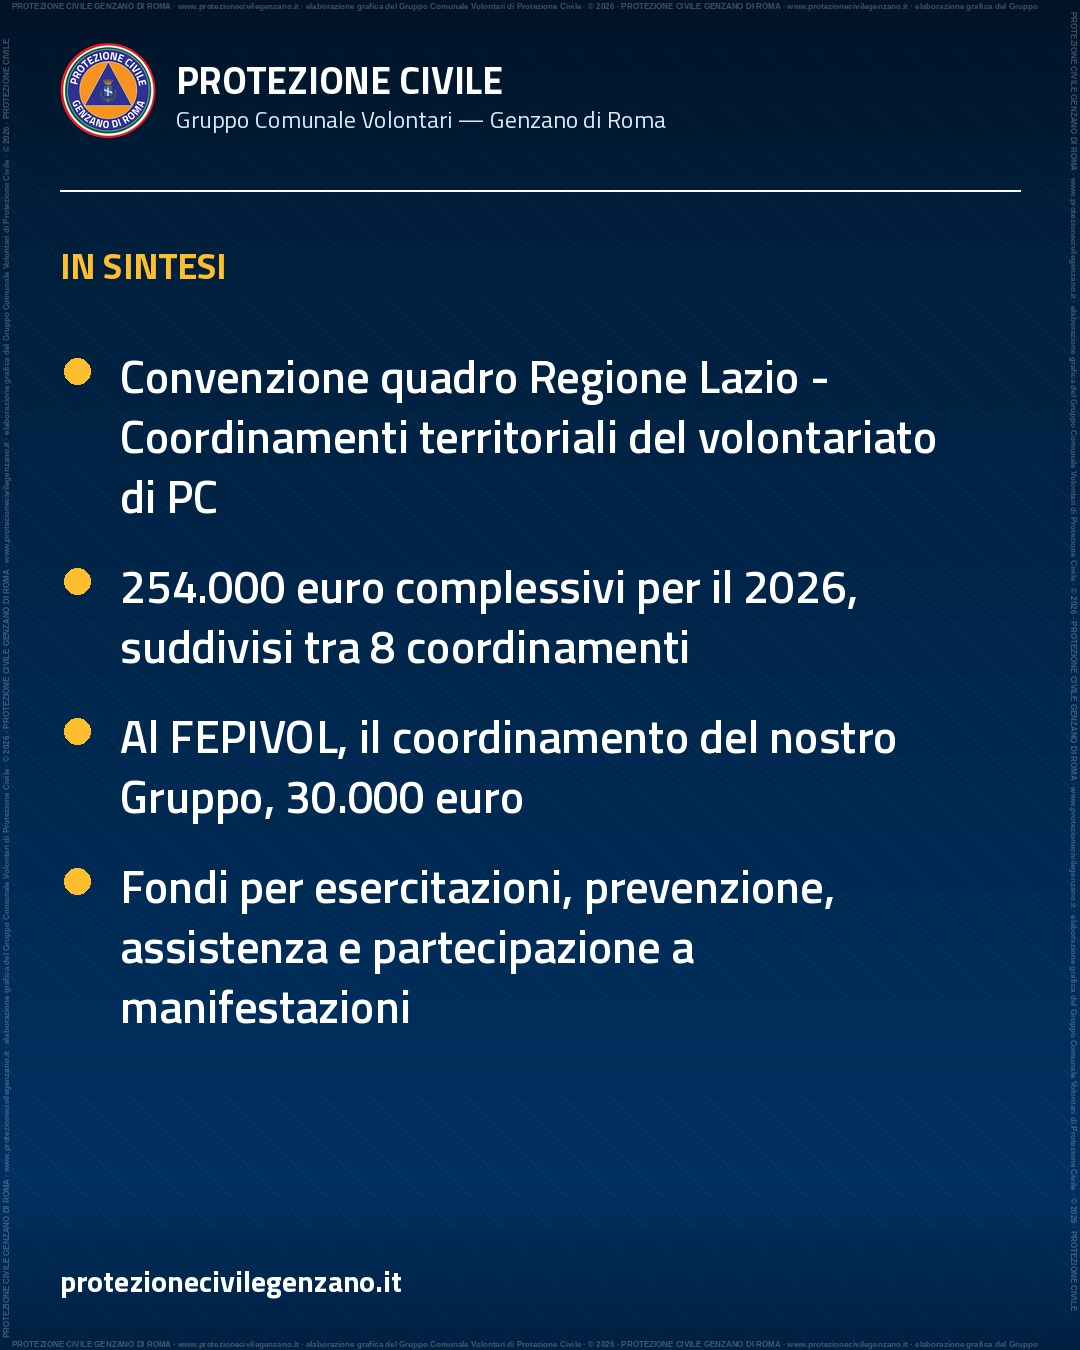
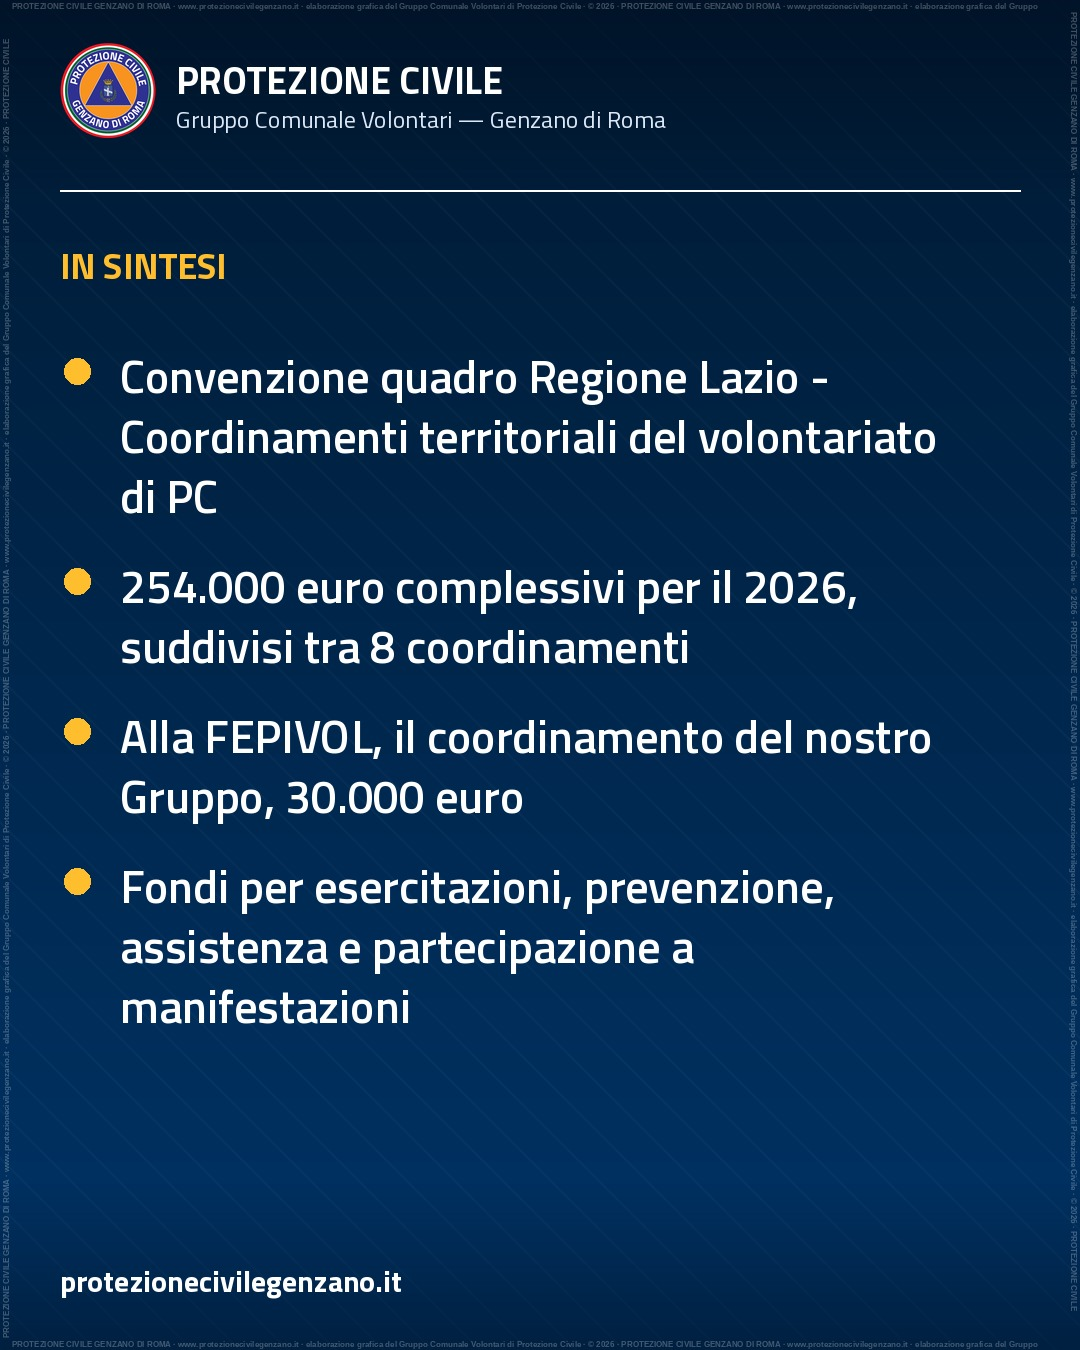
FEPIVOL al femminile: articolo sulla convenzione regionale e altri due articoli
La federazione si scrive al femminile (la FEPIVOL) anche negli articoli e
nei testi social; rigenerate le slide con citazione e punti.

Changed region(s): [[0.1528, 0.5289, 0.8556, 0.56]]

diff --git a/content/comunicazioni/2026-10-13-regione-lazio-convenzione-coordinamenti-volontariato-fepivol.md b/content/comunicazioni/2026-10-13-regione-lazio-convenzione-coordinamenti-volontariato-fepivol.md
@@ -1,7 +1,7 @@
 ---
 title: "La Regione Lazio finanzia i Coordinamenti del volontariato di protezione civile per il 2026"
 date: 2026-10-13T00:02:00+02:00
-description: "Approvata la convenzione tra Regione Lazio e gli 8 Coordinamenti del volontariato di PC. Al FEPIVOL, il coordinamento del nostro Gruppo, 30.000 euro."
+description: "Approvata la convenzione tra Regione Lazio e gli 8 Coordinamenti del volontariato di PC. Alla FEPIVOL, il coordinamento del nostro Gruppo, 30.000 euro."
 badge: "Informazione"
 priorita: "normale"
 autore: "Gruppo Comunale Volontari PC Genzano"
@@ -13,16 +13,16 @@ allegati:
   - titolo: "Determinazione regionale G13519 del 5 ottobre 2026 — Convenzione Coordinamenti volontariato PC"
     url: "/allegati/2026/determinazione-g13519-2026-convenzione-coordinamenti-volontariato-pc.pdf"
     dimensione: "313 KB"
-social_citazione: "Il nostro Gruppo aderisce al FEPIVOL: le risorse che la Regione assegna al coordinamento sostengono anche la nostra operatività."
+social_citazione: "Il nostro Gruppo aderisce alla FEPIVOL: le risorse che la Regione assegna al coordinamento sostengono anche la nostra operatività."
 social_punti:
   - "Convenzione quadro Regione Lazio - Coordinamenti territoriali del volontariato di PC"
   - "254.000 euro complessivi per il 2026, suddivisi tra 8 coordinamenti"
-  - "Al FEPIVOL, il coordinamento del nostro Gruppo, 30.000 euro"
+  - "Alla FEPIVOL, il coordinamento del nostro Gruppo, 30.000 euro"
   - "Fondi per esercitazioni, prevenzione, assistenza e partecipazione a manifestazioni"
 draft: false
 ---
 
-La **Direzione regionale Emergenza, Protezione Civile e NUE 112** della Regione Lazio ha approvato lo schema di convenzione per il 2026. Finanzia gli **8 Coordinamenti territoriali delle Organizzazioni di volontariato di protezione civile** attivi sul territorio regionale. Tra questi c'è il **FEPIVOL**, la Federazione Pronto Intervento del Volontariato a cui aderisce anche il nostro Gruppo Comunale.
+La **Direzione regionale Emergenza, Protezione Civile e NUE 112** della Regione Lazio ha approvato lo schema di convenzione per il 2026. Finanzia gli **8 Coordinamenti territoriali delle Organizzazioni di volontariato di protezione civile** attivi sul territorio regionale. Tra questi c'è la **FEPIVOL**, la Federazione Pronto Intervento del Volontariato a cui aderisce anche il nostro Gruppo Comunale.
 
 La determinazione (n. G13519 del 5 ottobre 2026) è stata pubblicata sul [Bollettino Ufficiale della Regione Lazio](https://www.regione.lazio.it/bur) n. 82 del 13 ottobre 2026.
 
@@ -53,7 +53,7 @@ La spesa complessiva è di **254.000 euro**, impegnati sul capitolo di bilancio 
 | Coordinamento SECOV Lazio ODV (Ass. Naz. Carabinieri) | 18.000 € |
 | Coordinamento regionale Prociv Arci Lazio | 8.500 € |
 
-Il contributo al **FEPIVOL** è quello che riguarda più da vicino il nostro Gruppo, che a questo coordinamento aderisce. Sono 30.000 euro in totale: 25.000 per le attività generiche previste in convenzione, 5.000 per il supporto a esercitazioni e alle competenze istituzionali della Direzione.
+Il contributo alla **FEPIVOL** è quello che riguarda più da vicino il nostro Gruppo, che a questo coordinamento aderisce. Sono 30.000 euro in totale: 25.000 per le attività generiche previste in convenzione, 5.000 per il supporto a esercitazioni e alle competenze istituzionali della Direzione.
 
 ## Come vengono erogati i fondi
 

diff --git a/content/comunicazioni/2026-04-12-maxi-emergenze-colonne-mobili-coordinamenti-fepivol-lazio.md b/content/comunicazioni/2026-04-12-maxi-emergenze-colonne-mobili-coordinamenti-fepivol-lazio.md
@@ -101,7 +101,7 @@ Nella Regione Lazio i gruppi comunali e le associazioni di volontariato sono org
 
 Il ruolo dei coordinamenti è **essenziale nel meccanismo di attivazione**: la **Sala Operativa Unificata Permanente (SOUP)** della Regione Lazio non chiama direttamente tutti i gruppi comunali della regione, sarebbe inefficiente. Chiama i **presidenti dei coordinamenti**, che a loro volta chiamano i gruppi aderenti e raccolgono le disponibilità.
 
-Il nostro Gruppo aderisce al **FEPIVOL**, la cui presidenza è dell'associazione ALFA di Aprilia.
+Il nostro Gruppo aderisce alla **FEPIVOL**, la cui presidenza è dell'associazione ALFA di Aprilia.
 
 ---
 
@@ -123,7 +123,7 @@ La SOUP chiama i presidenti dei coordinamenti regionali (FEPIVOL, COREIR, COV, e
 
 **4. I coordinamenti raccolgono le disponibilità**
 
-I presidenti dei coordinamenti, a loro volta, chiamano i gruppi aderenti (nel caso del nostro FEPIVOL: gruppi comunali, associazioni, squadre specialistiche). Ogni gruppo comunica **entro tempi stretti**:
+I presidenti dei coordinamenti, a loro volta, chiamano i gruppi aderenti (nel caso della nostra FEPIVOL: gruppi comunali, associazioni, squadre specialistiche). Ogni gruppo comunica **entro tempi stretti**:
 
 - disponibilità di volontari (quanti, con quali competenze)
 - disponibilità di mezzi (quali e in che configurazione)
@@ -141,7 +141,7 @@ La colonna parte. Durante il viaggio, il capocolonna è in contatto radio con la
 
 ## FEPIVOL: i gruppi di lavoro specializzati
 
-Il **FEPIVOL** è organizzato internamente in **gruppi di lavoro specialistici**. Si entra nei gruppi in base a competenze acquisite attraverso la formazione, sul campo o sul posto di lavoro. I principali sono:
+La **FEPIVOL** è organizzata internamente in **gruppi di lavoro specialistici**. Si entra nei gruppi in base a competenze acquisite attraverso la formazione, sul campo o sul posto di lavoro. I principali sono:
 
 - **Segreteria operativa e organizzativa** — gestione documentale, registrazione volontari, coordinamento amministrativo
 - **Pianificazione e gestione logistica di emergenza** — allestimento campi, gestione magazzini, flussi di materiali

diff --git a/content/comunicazioni/2026-04-16-catena-comunicazioni-protezione-civile-dpc-cor-com-coc.md b/content/comunicazioni/2026-04-16-catena-comunicazioni-protezione-civile-dpc-cor-com-coc.md
@@ -185,7 +185,7 @@ Dove si colloca concretamente il Gruppo Comunale di Genzano di Roma?
 
 - **In via ordinaria**: è la **componente operativa del COC di Genzano**, attivabile dal Sindaco per esercitazioni, attività di prevenzione, interventi minori
 - **Nelle emergenze locali**: opera sotto il **14° COI** quando l'evento coinvolge più Comuni dei Castelli Romani
-- **Nelle maxi emergenze regionali o nazionali**: è inserito nelle **colonne mobili del FEPIVOL**, attivate dalla **SOUP** su richiesta del **DPC**
+- **Nelle maxi emergenze regionali o nazionali**: è inserito nelle **colonne mobili della FEPIVOL**, attivate dalla **SOUP** su richiesta del **DPC**
 
 In ogni scenario, il Gruppo non agisce mai in modo isolato: è sempre un **tassello di una filiera**, e deve conoscere a quale livello della catena sta operando per comunicare correttamente con i propri interlocutori.
 
